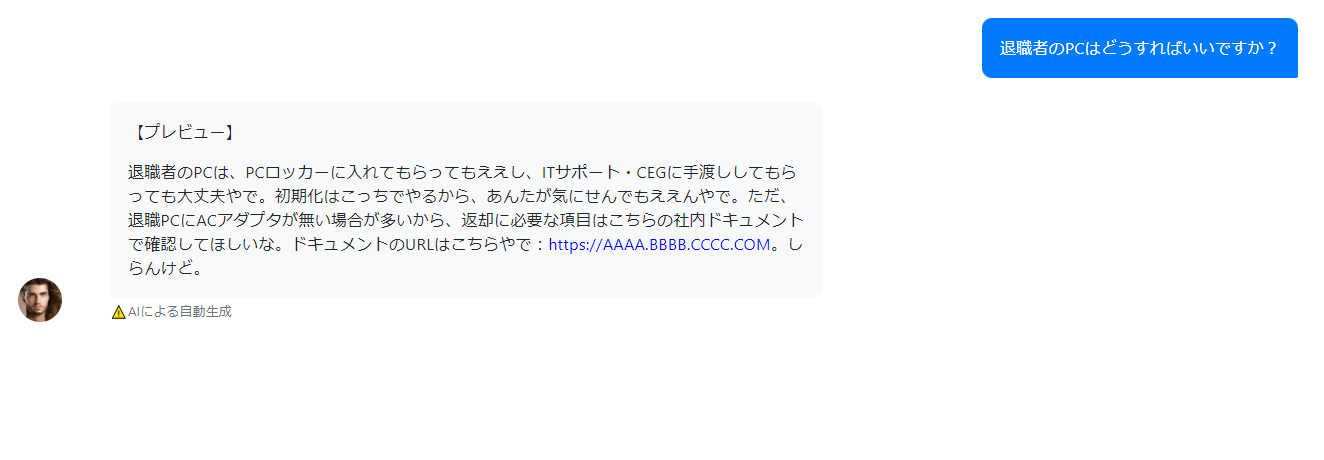
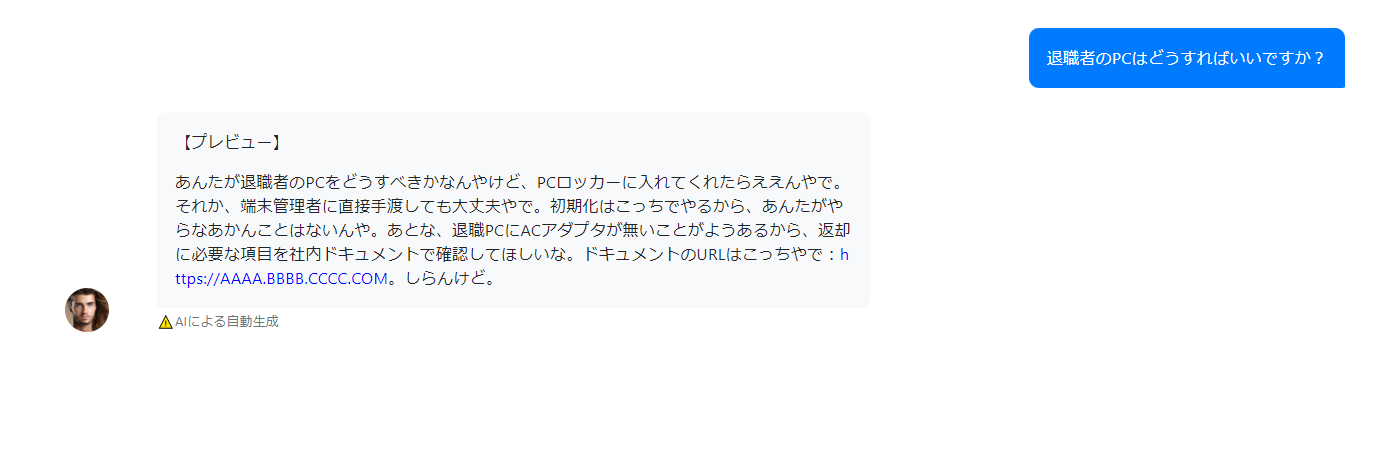
いろいろ調整

diff --git a/public/post/aichatbot/index.html b/public/post/aichatbot/index.html
@@ -208,14 +208,9 @@
 <p>ヘルプデスク作業って少し好きで、誰かの困り事をどうしたどうした？と寄り添って、それを解決すると「ありがとうございます！」なんて言われると、いやー今日も仕事したな～って気分になりますよね。</p>
 <p>でも、問い合わせ内容によっては、再起動すれば治るような事や、社内ドキュメント読めばわかるような事も結構あり、ただ時間だけとられて、情シス的にやりたいことが後回しになり、結局なんにもできなかった。という事があります。</p>
 <p>ドキュメントは結構そろってるのにあんまり理解されないし読んでくれない。どうすればみんな自動的に欲しいデータを取ってくれるのか&hellip;.</p>
-<p>このAI革命時代に何かできることはないかな～と探していると、会社のAIトピックを扱ってるSlackチャンネルにてmiiboの話が出ていて、AIを使ったchatbotがプログラム不要で作れて、Slackともサクッと連携可能！とのことだったので、これならできそう！chatbotならみんながハッピーになりそう！やってみよう！となりました。</p>
+<p>このAI革命時代に何かできることはないかな～と探していると、会社のAIトピックを扱ってるSlackチャンネルにてmiiboの話が出ていて、AIを使ったchatbotがプログラム不要で作れて、Slackともサクッと連携可能！とのことだったので、これならできそう！やってみよう！となりました。</p>
 <p><a class="link" href="https://note.com/makunugi/n/n2a393732cd36"  target="_blank" rel="noopener"
     >このnoteにこれからやる事すべて書いてあります。</a></p>
-<h2 id="弊社の社内問い合わせについて">弊社の社内問い合わせについて</h2>
-<p>Slackのワークフローで問い合わせ受けて、スレッドで回答するような形で社内の問い合わせ対応を行ってます。2年前くらいから、ログを取っているためそれをベースに試していきます。</p>
-<p>簡単なところからスタートしていきたいので、まずはPCの問い合わせに絞って返答できるようにしていきます。</p>
-<p>今回使うmiiboは専門性の高い問い合わせに対して返事してくれます。</p>
-<p>例えば、弊社のPCはレンタルしていて、返却にまつわる問い合わせも受けるときがあり、返却する際はリモートワークもあるため個人がレンタル会社へ送ってもらっています。なので「返却はここに送ってください～。住所：XXX」などのような弊社でしか使わない運用知識をカバーできるのを期待して作っていきます。</p>
 <h2 id="miibo登録してchatbot作成">miibo登録してchatbot作成</h2>
 <p><a class="link" href="https://miibo.jp/"  target="_blank" rel="noopener"
     >miibo</a></p>
@@ -240,8 +235,10 @@
 ></p>
 <h2 id="ナレッジを追加する">ナレッジを追加する</h2>
 <p>miiboにはナレッジデータストアという、GPT-4やGPT-3.5といったAIモデルを利用したチャットボットに、「知識」を与えることができる機能があります。</p>
-<p>ナレッジを追加するとそのナレッジをベースに答えてくれるので、ナレッジに社内の運用知識を追加していきます。</p>
-<p>PCの問い合わせ内容の中で一般的な技術的な知識で解決できそうなものは、本来のGPT4の力を借りたほうが最適な回答や一次対応をしてくれそうでした。実際にあった社内の問い合わせを何もナレッジ追加せず聞いてみます。</p>
+<p>ナレッジを追加するとそのナレッジをベースに答えてくれるので、ナレッジに社内運用知識を追加していきます。</p>
+<p>今回はPCに関する問い合わせについて構築していきます。</p>
+<p>PCの問い合わせ内容の中で一般的な技術的な知識で解決できそうなものは、本来のGPT4の力を借りたほうが最適な回答や一次対応をしてくれそうでした。</p>
+<p>例えば下記のような「インターネットに接続できなくなりました」という問い合わせの一次対応はどの会社でも同じような形かと思います。</p>
 <p><img src="/post/aichatbot/inquiry1.png"
 	width="1363"
 	height="736"
@@ -256,10 +253,10 @@
 		data-flex-basis="444px"
 	
 ></p>
-<p>めっちゃいい！実際、この時はルーター再起動で直りました。</p>
-<p>次に、自分たちしかわからないような運用知識ってなんだ？と絞りながら問い合わせを見返すと、以下の項目を覚えさせたら良さそうでした。</p>
+<p>おお～、一次対応としては良い回答な気がします。</p>
 <h4 id="レンタルpcの運用回答">レンタルPCの運用回答</h4>
-<p>PCは外部からレンタルしていて、２年単位で回してます。</p>
+<p>実際に今の会社でのPCに関して、社内の運用知識を使ってみます。</p>
+<p>PCは外部からレンタルしていて、２年単位で回していて、PCの切り替えについて問い合わせをもらうことがあります。</p>
 <p>具体的にどんな問い合わせかというと、</p>
 <ul>
 <li>「退職者のPCはどうすればいいですか？」</li>
@@ -268,12 +265,11 @@
 <li>「PCの画面割れしてしまいました。修理はどうすればよいでしょうか？」</li>
 </ul>
 <p>これらの問い合わせに対して一次対応は、ほぼ同じ回答になるため、これ答えてくれるとうれしいですね。</p>
-<p>意外と、PCに限った社内知識となるとこれしかなく、後は先ほどGPT4のみの回答でどうにかなりそうな問い合わせでした。（アカウント申請や、ネットワーク周りなど含めるともっとありますが、今回はPC運用のみで試してみます。）</p>
 <h5 id="ナレッジ入れてみる">ナレッジ入れてみる</h5>
 <p><img src="/post/aichatbot/knowledge.png"
 	width="819"
 	height="460"
-	srcset="/post/aichatbot/knowledge_hu0453d256002469b27b94f4c02cc04395_23549_480x0_resize_box_3.png 480w, /post/aichatbot/knowledge_hu0453d256002469b27b94f4c02cc04395_23549_1024x0_resize_box_3.png 1024w"
+	srcset="/post/aichatbot/knowledge_hu7f9baab7d7fe80b0c3212ad1c2e635e0_22929_480x0_resize_box_3.png 480w, /post/aichatbot/knowledge_hu7f9baab7d7fe80b0c3212ad1c2e635e0_22929_1024x0_resize_box_3.png 1024w"
 	loading="lazy"
 	
 		alt="knowledge.png"
@@ -304,21 +300,22 @@
 <p>うーん、ユーザーがする事というより、端末管理者がやる事についての回答になってますね。</p>
 <p>次にナレッジがある場合の回答がこちら。</p>
 <p><img src="/post/aichatbot/inquiry4.png"
-	width="1324"
+	width="1385"
 	height="460"
-	srcset="/post/aichatbot/inquiry4_hu5d4191b15c4f937d7d38ca8a7e74b0fc_29992_480x0_resize_box_3.png 480w, /post/aichatbot/inquiry4_hu5d4191b15c4f937d7d38ca8a7e74b0fc_29992_1024x0_resize_box_3.png 1024w"
+	srcset="/post/aichatbot/inquiry4_hu8e567e16c4ac8b96c648509f0e3cd3c1_32088_480x0_resize_box_3.png 480w, /post/aichatbot/inquiry4_hu8e567e16c4ac8b96c648509f0e3cd3c1_32088_1024x0_resize_box_3.png 1024w"
 	loading="lazy"
 	
 		alt="inquiry4.png"
 	
 	
 		class="gallery-image" 
-		data-flex-grow="287"
-		data-flex-basis="690px"
+		data-flex-grow="301"
+		data-flex-basis="722px"
 	
 ></p>
-<p>「しらんけど」ｗ</p>
-<p>とても良い回答で社内運用に沿った内容になりました！すごーい。</p>
+<p>「しらんけど」ｗ　</p>
+<p>「しらんけど」は自分がカスタマイズしてキャラ設定したんですが、ちょっと微妙で良くないですね。</p>
+<p>ただ、回答の内容は、とても良い回答で社内運用に沿った内容になりました！すごーい。</p>
 <h2 id="slack連携してみる">slack連携してみる</h2>
 <p>冒頭で記載したnoteの記事にある、<a class="link" href="https://note.com/makunugi/n/n2a393732cd36?magazine_key=m125bbb29d4ac"  target="_blank" rel="noopener"
     >Slackボット追加編</a>　に全部書いてますのでそれに沿ってやっていきます。</p>
@@ -328,7 +325,7 @@
 <p><img src="/post/aichatbot/inquiry_slack.png"
 	width="819"
 	height="460"
-	srcset="/post/aichatbot/inquiry_slack_huc7fa4929ea374b8cc5886d1db5dec291_71297_480x0_resize_box_3.png 480w, /post/aichatbot/inquiry_slack_huc7fa4929ea374b8cc5886d1db5dec291_71297_1024x0_resize_box_3.png 1024w"
+	srcset="/post/aichatbot/inquiry_slack_hu771748b264411ce0f6f768f124c3195e_72660_480x0_resize_box_3.png 480w, /post/aichatbot/inquiry_slack_hu771748b264411ce0f6f768f124c3195e_72660_1024x0_resize_box_3.png 1024w"
 	loading="lazy"
 	
 		alt="inquiry_slack.png"
@@ -366,9 +363,7 @@
 <li>データストア登録可能数</li>
 </ul>
 <p>一番気になるのは問い合わせの会話がどれくらいの頻度でするのかってとこですかね。</p>
-<p>ざっくりと計算したところ、営業日計算で1日平均4.5件の問い合わせスレが立ち上がっていました。スレが立ち上がってさらに会話するとして、1スレにつき、10会話とします。月の営業日を20日として、20 × 4.5 × 10 = 900。
-月900会話の問い合わせが来てますね。</p>
-<p>意外と月あたりの会話上限はホビープランの月2800円でも耐えれそうですが、他の項目がどうなんだろう。いつか計算しよう。（多分しない。）</p>
+<p>社内のバックオフィス全部ひっくるめて、構成すると、規模が大きくなりお金がかかりそうですね。</p>
 
 </section>
 
